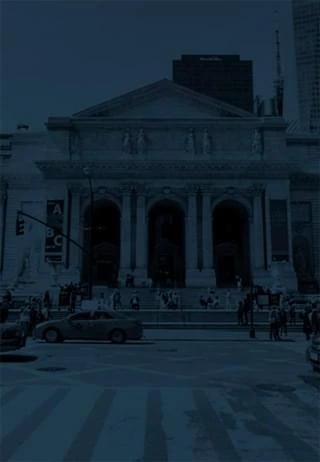
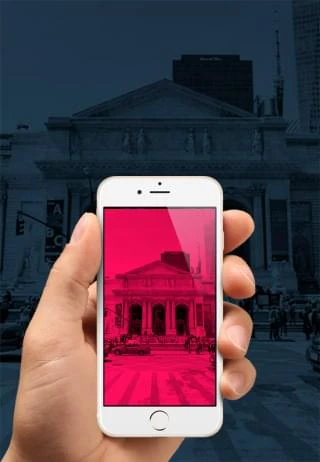
heafer v 01

diff --git a/src/sass/block/main-header.scss b/src/sass/block/main-header.scss
@@ -1,18 +1,31 @@
-.main-nav {
+.promo {
   background-image: url(../img/main-footer/back-mobile.webp);
+  background-color: $basic-dark;
   background-repeat: no-repeat;
-  background-size: cover;
+  background-size: cover 462px;
+  background-position: 0 0;
+
+  @media (min-width: 660px) {
+    background-image: url(../img/main-footer/back-tablet.webp);
+  }
+
+  @media (min-width: 1200px) {
+    background-image: url(../img/main-footer/back-desktop.webp);
+  }
+}
+
+.main-nav {
+  position: absolute;
+  top: 0;
   background-color: $basic-dark;
 
   &--disabled {
     background-color: rgba($basic-black, 0.3);
 
     .main-nav__item {
-      &:not(:first-child) {
-        display: none;
-      }
+      box-shadow: none;
 
-      &::before {
+      &:not(:first-child) {
         display: none;
       }
     }
@@ -29,23 +42,14 @@
   position: relative;
   padding: 0;
   height: 69px;
-  &::before {
-    content: "";
-    position: absolute;
-    left: 0;
-    bottom: 0;
-    display: block;
-    height: 2px;
-    width: 100vw;
-    box-shadow: 0 1px 0 $basic-black, inset 0 1px 0 rgba($basic-white, 0.15);
-  }
+  box-shadow: 0 1px 0 $basic-black, inset 0 1px 0 rgba($basic-white, 0.15);
 }
 
 .main-nav__logo {
   display: flex;
   justify-content: space-between;
   align-items: center;
-  height: 100%;
+  height: 69px;
 }
 
 .main-nav__link {
@@ -59,4 +63,21 @@
   line-height: 32px;
   text-decoration: none;
   text-transform: uppercase;
+}
+
+.prompo__title {
+  margin: 0;
+  padding: 0;
+  padding-top: 95px;
+  padding-bottom: 320px;
+  font-weight: 300;
+  font-size: 24px;
+  line-height: 23.5px;
+  text-align: center;
+  color: $basic-white;
+}
+
+.promo__button {
+  margin-top: 28px;
+  margin-bottom: 32px;
 }

diff --git a/index.html b/index.html
@@ -19,7 +19,7 @@
   <body class="page__body">
     <!-- svg>use[href="src/icon/img.svg#name"] -->
     <header class="main-header">
-      <nav class="main-nav main-nav--disabled">
+      <nav class="main-nav">
         <ul class="main-nav__list">
           <li class="main-nav__item">
             <div class="main-nav__logo container">
@@ -32,7 +32,7 @@
             </div>
           </li>
           <li class="main-nav__item">
-            <a href="" class="main-nav__link container">Главная</a>
+            <a href="index.html" class="main-nav__link container">Главная</a>
           </li>
           <li class="main-nav__item">
             <a href="" class="main-nav__link container">Фотографии</a>
@@ -45,6 +45,15 @@
           </li>
         </ul>
       </nav>
+
+      <section class="promo container">
+        <h2 class="prompo__title">Взгляните на жизнь иначе!</h2>
+        <div>
+          <button class="promo__button button button--downoload">
+            Скачать приложение
+          </button>
+        </div>
+      </section>
     </header>
     <main class="page__main"></main>
     <footer class="main-footer"></footer>
